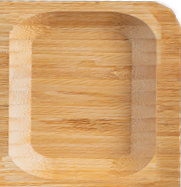
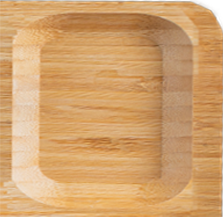
update:更改圖片

diff --git a/src/components/customized-meal-page/TheDinnerPlate.vue b/src/components/customized-meal-page/TheDinnerPlate.vue
@@ -43,7 +43,7 @@ defineProps({
   </div>
   <div class="flex">
     <div class="relative">
-      <img src="../../assets/image/餐盤測試/底餐盤-2.png" />
+      <img src="../../assets/image/餐盤測試/底餐盤.png" />
       <div class="absolute left-1/2 top-1/2 -translate-x-1/2 -translate-y-1/2">
         <div class="flex items-center justify-center">
           <img

diff --git a/src/views/EditCustomMealPage.vue b/src/views/EditCustomMealPage.vue
@@ -324,6 +324,7 @@ onMounted(async () => {
   const id = Number(route.params.id)
   const item = findDishById(id, data)
   assignBoxToCase(item)
+  console.log(data)
 })
 
 const findDishById = (id, dishesArray) => {
